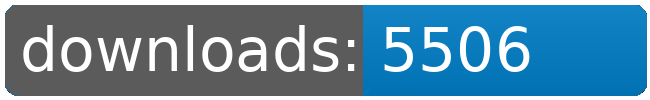
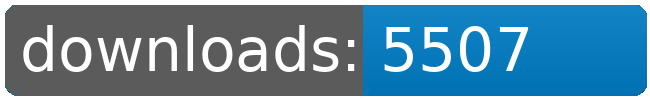
dl log written

Changed region(s): [[0.7692, 0.24, 0.8308, 0.72]]

diff --git a/README.md b/README.md
@@ -21,8 +21,8 @@
 		<td>5419</td>
 		<td>5451</td>
 		<td>5493</td>
-		<td>5506</td>
-		<td>+ 13</td>
+		<td>5507</td>
+		<td>+ 14</td>
 	</tr>
 	<tr>
 		<td>Factory.Outlets</td>
@@ -109,8 +109,8 @@
 		<td></td>
 		<td></td>
 		<td></td>
-		<td>43717</td>
-		<td>71</td>
+		<td>43718</td>
+		<td>72</td>
 	</tr>
 </table>
 </sub></sup>
@@ -157,8 +157,8 @@
 		<td>5419</td>
 		<td>5451</td>
 		<td>5493</td>
-		<td>5506</td>
-		<td>+ 13</td>
+		<td>5507</td>
+		<td>+ 14</td>
 	</tr>
 	<tr>
 		<td>Korunak.Defense.Drones</td>
@@ -223,8 +223,8 @@
 		<td></td>
 		<td></td>
 		<td></td>
-		<td>43717</td>
-		<td>71</td>
+		<td>43718</td>
+		<td>72</td>
 	</tr>
 </table>
 </sub></sup>
